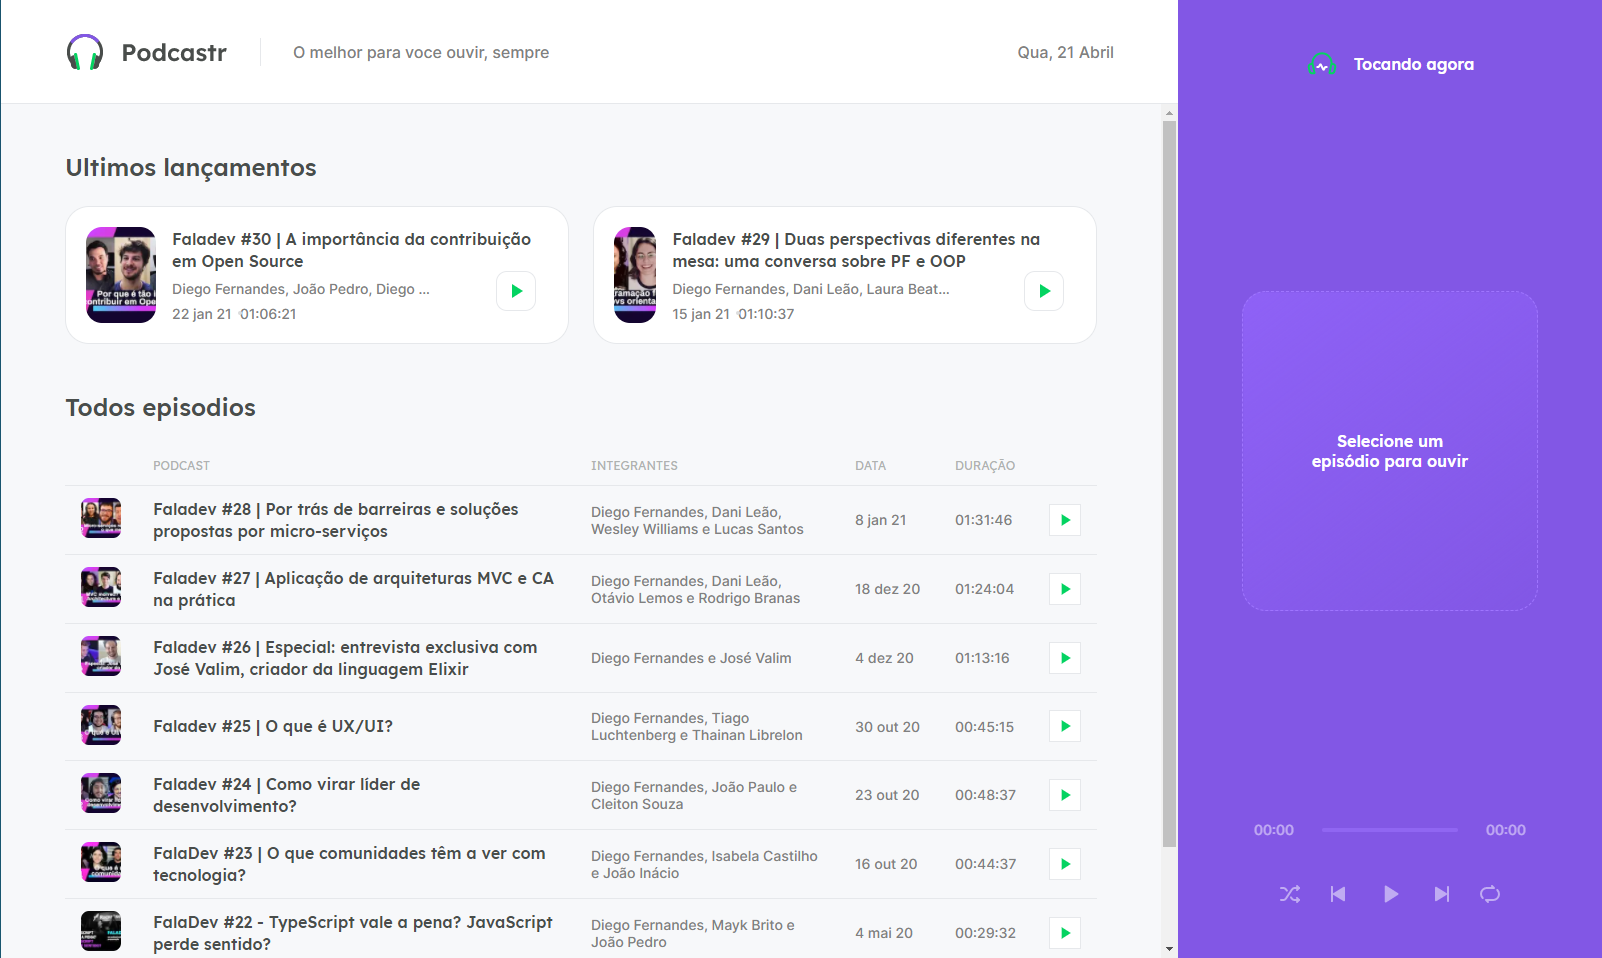
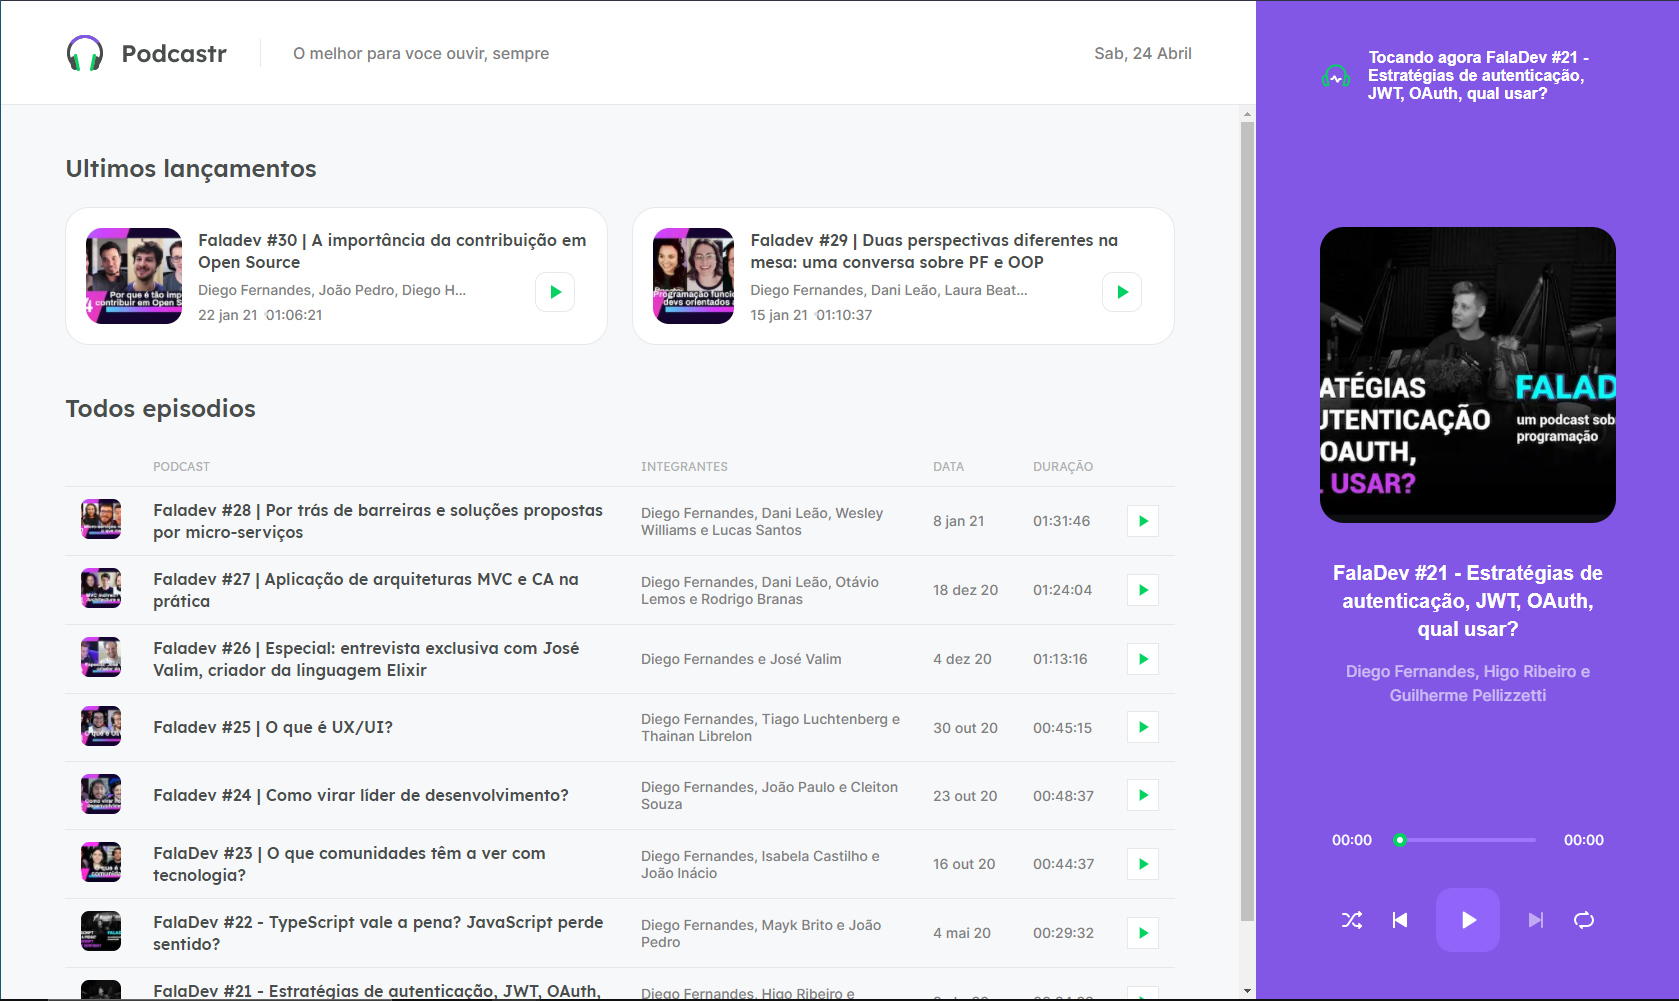
dia 5: melhorar o botão de anterior e proximo

diff --git a/src/components/Player/styles.module.scss b/src/components/Player/styles.module.scss
@@ -1,129 +1,137 @@
 .playerContainer {
-    width: 26.5rem;
-    height: 100vh;
-    padding: 3rem 4rem;
-    
-    background: var(--purple-500);
-    color: var(--white);
-  
+  padding: 3rem 4rem;
+  width: 26.5rem;
+  height: 100vh;
+
+  background: var(--purple-500);
+  color: var(--white);
+
+  display: flex;
+  flex-direction: column;
+  align-items: center;
+  justify-content: space-between;
+
+  header {
     display: flex;
-    flex-direction: column;
     align-items: center;
-    justify-content: space-between;
-  
-    header {
-      display: flex;
-      align-items: center;
-      gap: 1rem;
-    }
-  
-    strong {
-      font-family: Lexend, sans-serif;
-      font-weight: 600;
-    }
-  
-    footer {
-      align-self: stretch;
-  
-      &.empty {
-        opacity: 0.5;
-      }
+    gap: 1rem;
+  }
+
+  strong {
+    font-family: Lexand, sans-serif;
+    font-weight: 600;
+  }
+
+  footer {
+    align-self: stretch;
+
+    &.empty .progress {
+      opacity: 0.5;
     }
   }
-  
-  .currentEpisode {
-    text-align: center;
-  
-    img {
-      border-radius: 1.5rem;
-    }
-  
-    strong {
-      display: block;
-      margin-top: 2rem;
-      font: 600 1.25rem Lexend, sans-serif;
-      line-height: 1.75rem;
-    }
-  
-    span {
-      display: block;
-      margin-top: 1rem;
-      opacity: 0.6;
-      line-height: 1.5rem
-    }
-  }
-  
-  .emptyPlayer {
-    width: 100%;
-    height: 20rem;
-  
-    border: 1.5px dashed var(--purple-300);
+}
+
+.currentEpisode {
+  text-align: center;
+
+  img {
     border-radius: 1.5rem;
-    background: linear-gradient(143.8deg, rgba(145, 100, 250, 0.8) 0%, rgba(0, 0, 0, 0) 100%);
-  
-    padding: 4rem;
+  }
+
+  strong {
+    display: block;
+    margin-top: 2rem;
+    font: 600 1.25rem Lexand, sans-serif;
+    line-height: 1.75rem;
+  }
+
+  span {
+    display: block;
+    margin-top: 1rem;
+    opacity: 0.6;
+    line-height: 1.5rem;
+  }
+}
+
+.emptyPlayer {
+  width: 100%;
+  height: 20rem;
+  border: 1.5px dashed var(--purple-300);
+  border-radius: 1.5rem;
+  background: linear-gradient(143.8deg, rgba(145, 100, 250, 0.8) 0%, rgba(0,0,0,0) 100%);
+
+  padding: 4rem;
+  text-align: center;
+
+  display: flex;
+  align-items: center;
+  justify-content: center;
+}
+
+.progress {
+  display: flex;
+  align-items: center;
+  gap: 1rem;
+  font-size: 0.875rem;
+
+  span {
+    display: inline-block;
+    width: 4rem;
     text-align: center;
-  
-    display: flex;
-    align-items: center;
-    justify-content: center;
   }
-  
-  .progress {
-    display: flex;
-    align-items: center;
-    gap: 0.5rem;
-    font-size: 0.875rem;
-  
-    span {
-      display: inline-block;
+
+  .slider {
+    flex: 1;
+
+    .emptySlider {
+      width: 100%;
+      height: 4px;
+      background: var(--purple-300);
+      border-radius: 2px;
+    }
+  }
+}
+
+.buttons {
+  display: flex;
+  align-items: center;
+  justify-content: center;
+  margin-top: 2.5rem;
+  gap: 1.5rem;
+
+  button {
+    background: transparent;
+    border: 0;
+    font-size: 0;
+    transition: filter 0.2s;
+    
+    &:disabled {
+      cursor: default;
+      opacity: 0.5;
+    }
+
+    &:hover:not(:disabled) {
+      filter: brightness(0.7)
+    }
+
+    &.isActive {
+      filter: invert(0.35) sepia(1) saturate(3) hue-rotate(100deg)
+    }
+
+    &.isActive:hover {
+      filter: brightness(0.6) invert(0.35) sepia(1) saturate(3) hue-rotate(100deg);
+    }
+
+    &.playButton {
       width: 4rem;
-      text-align: center;
-    }
-  
-    .slider {
-      flex: 1;
-  
-      .emptySlider {
-        width: 100%;
-        height: 4px;
-        background: var(--purple-300);
-        border-radius: 2px;
+      height: 4rem;
+      border-radius: 1rem;
+      background: var(--purple-400);
+      transition: filter 0.2s;
+
+      &:hover {
+        filter: brightness(0.95)
       }
     }
   }
-  
-  .buttons {
-    display: flex;
-    align-items: center;
-    justify-content: center;;
-    margin-top: 2.5rem;
-    gap: 1.5rem;
-  
-    button {
-     background: transparent;
-     border: 0;
-     font-size: 0;
-  
-     transition: filter 0.2s;
-  
-      &:disabled {
-        cursor: default;
-      }
-  
-      &:hover:not(:disabled) {
-        filter: brightness(0.7);
-      }
-  
-     &.playButton {
-       width: 4rem;
-       height: 4rem;
-       border-radius: 1rem;
-       background: var(--purple-400);
-  
-       &:hover:not(:disabled) {
-        filter: brightness(0.95);
-      }
-     }
-    }
-  }
+}

diff --git a/src/contexts/PlayerContext.tsx b/src/contexts/PlayerContext.tsx
@@ -18,6 +18,8 @@ type PlayerContextData = {
     togglePlay: () => void;
     playNext: () => void;
     playPrevious: () => void;
+    hasNext: boolean;
+    hasPrevious: boolean;
 }
 
 export const PlayerContext = createContext({} as PlayerContextData)
@@ -51,16 +53,17 @@ export function PlayerContextProvider({ children }: PlayerContextProviderProps){
         setIsPlaying(state)
     }
 
-    function playNext() {
-        const nextEpisodeIndex = currentEpisodeIndex + 1;
+    const hasNext = (currentEpisodeIndex + 1) < episodeList.length
+    const hasPrevious = currentEpisodeIndex > 0
 
-        if (nextEpisodeIndex < episodeList.length) {
+    function playNext() {
+        if (hasNext) {
             setCurrentEpisodeIndex(currentEpisodeIndex + 1)
         }
     }
 
     function playPrevious() {
-        if(currentEpisodeIndex > 0) {
+        if(hasPrevious) {
             setCurrentEpisodeIndex(currentEpisodeIndex - 1)
         }
     }
@@ -76,7 +79,9 @@ export function PlayerContextProvider({ children }: PlayerContextProviderProps){
                 playNext,
                 playPrevious,
                 togglePlay, 
-                setPlayingState
+                setPlayingState,
+                hasNext,
+                hasPrevious
             }}
         >
             {children}

diff --git a/src/components/Player/index.tsx b/src/components/Player/index.tsx
@@ -13,7 +13,9 @@ export function Player() {
         togglePlay,
         setPlayingState,
         playNext,
-        playPrevious
+        playPrevious,
+        hasNext,
+        hasPrevious
     } = useContext(PlayerContext)
 
     useEffect(() => {
@@ -86,7 +88,7 @@ export function Player() {
                     <button type='button' disabled={!episode}>
                         <img src="/shuffle.svg" alt="Tocar anterior"/>
                     </button>
-                    <button type='button' onClick={playPrevious} disabled={!episode}>
+                    <button type='button' onClick={playPrevious} disabled={!episode || !hasPrevious}>
                         <img src="/play-previous.svg" alt="Tocar anterior"/>
                     </button>
                     <button 
@@ -100,7 +102,7 @@ export function Player() {
                             : <img src="/play.svg" alt="Tocar"/>
                         }
                     </button>
-                    <button type='button' onClick={playNext} disabled={!episode}>
+                    <button type='button' onClick={playNext} disabled={!episode || !hasNext}>
                         <img src="/play-next.svg" alt="Tocar proxima"/>
                     </button>
                     <button type='button' disabled={!episode}>
